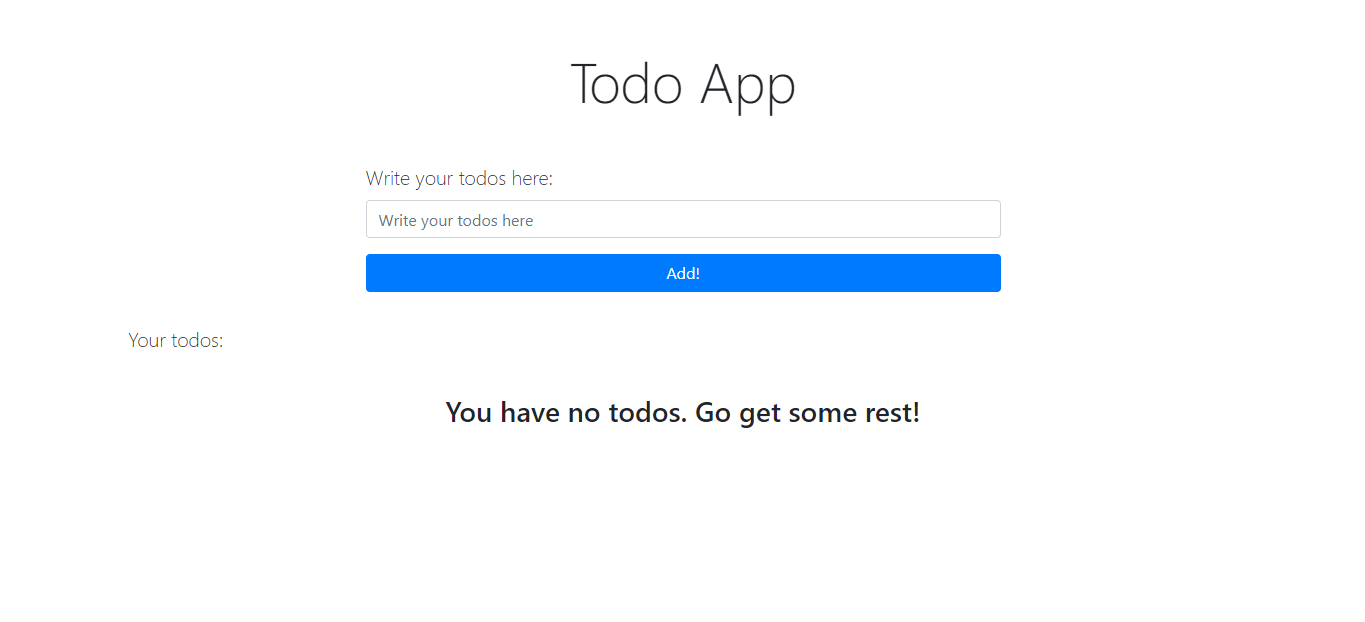
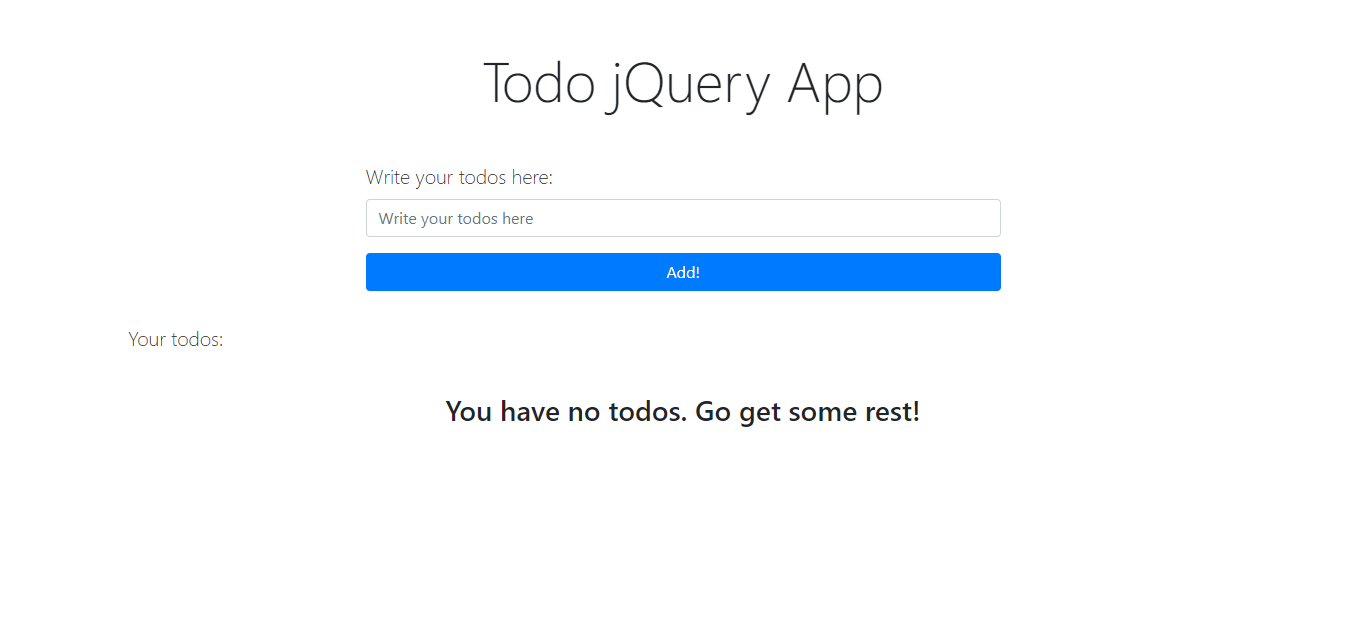
Change the Todo App to Todo jQuery App (in html and readme)

diff --git a/index.html b/index.html
@@ -3,7 +3,7 @@
 <head>
   <meta charset="UTF-8">
   <meta name="viewport" content="width=device-width, initial-scale=1.0">
-  <title>Todo App</title>
+  <title>Todo jQuery App</title>
   <!--Bootstrap CSS-->
   <link rel="stylesheet" href="https://maxcdn.bootstrapcdn.com/bootstrap/4.0.0/css/bootstrap.min.css" integrity="sha384-Gn5384xqQ1aoWXA+058RXPxPg6fy4IWvTNh0E263XmFcJlSAwiGgFAW/dAiS6JXm" crossorigin="anonymous">
   <!--Custom CSS-->
@@ -13,7 +13,7 @@
   <div class="container">
     <div class="row">
       <div class="col">
-        <h1 class="display-4 my-5 text-center">Todo App</h1>
+        <h1 class="display-4 my-5 text-center">Todo jQuery App</h1>
       </div>
     </div>
   </div>

diff --git a/README.md b/README.md
@@ -1,10 +1,8 @@
-# Todo App
+# Todo jQuery App
 [![My website](https://img.shields.io/badge/CLeDiscover-Clever%2C%20let's%20discover!-brightgreen?style=for-the-badge&logo=appveyor&logo=superuser)](https://clediscover.xyz)
 
-[![GitHub issues](https://img.shields.io/github/issues/clediscover/Todo-App)](https://github.com/clediscover/Todo-App/issues)
-[![GitHub forks](https://img.shields.io/github/forks/clediscover/Todo-App)](https://github.com/clediscover/Todo-App/network)
-[![GitHub stars](https://img.shields.io/github/stars/clediscover/Todo-App)](https://github.com/clediscover/Todo-App/stargazers)
-[![GitHub license](https://img.shields.io/github/license/clediscover/Todo-App)](https://github.com/clediscover/Todo-App/blob/master/LICENSE.md)
+[![GitHub stars](https://img.shields.io/github/stars/clediscover/Todo-jQuery-App)](https://github.com/clediscover/Todo-jQuery-App/stargazers)
+[![GitHub license](https://img.shields.io/github/license/clediscover/Todo-jQuery-App)](https://github.com/clediscover/Todo-jQuery-App/blob/master/LICENSE.md)
 
 ## Description
 - This application is made with HTML, CSS, Bootstrap, and jQuery. It is more focused on **jQuery** in terms of events.
@@ -30,7 +28,7 @@
 ## Quick Start
   1. On terminal/CMD do the following command:
       ```
-        git clone https://github.com/clediscover/Todo-App.git
+        git clone https://github.com/clediscover/Todo-jQuery-App.git
       ``` 
-  2. Go to the directory, where you've cloned, then open the "index.html".
+  2. Go to the **Todo-jQuery-App** directory, then open the **index.html**.
   3. It's done!
